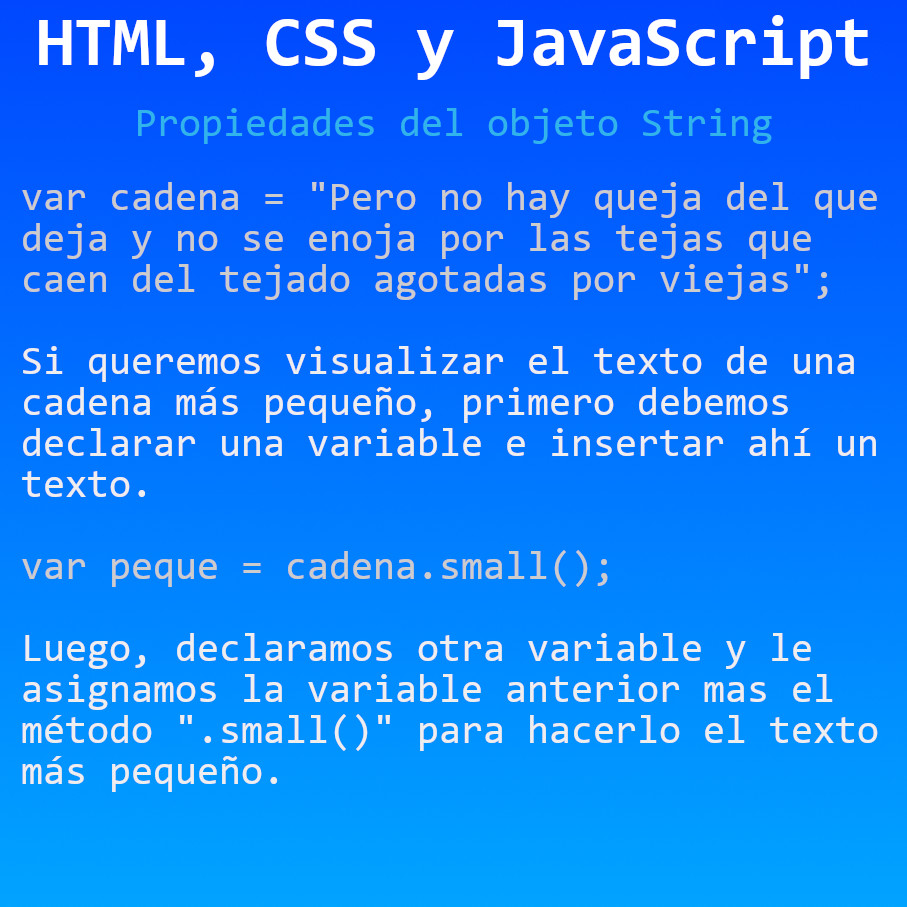
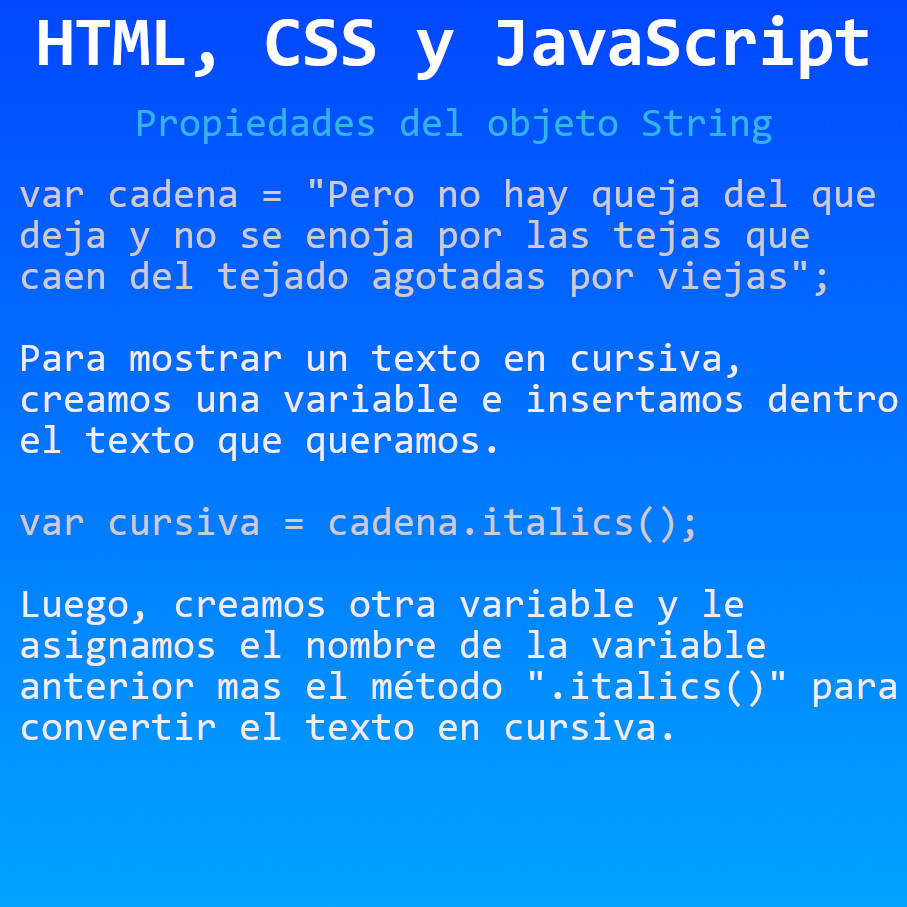
Métodos del objeto String
Métodos del objeto String en JavaScript

diff --git a/HTML, CSS y JavaScript/Métodos del objeto String/js/funciones.js b/HTML, CSS y JavaScript/Métodos del objeto String/js/funciones.js
@@ -56,3 +56,10 @@ var peque = cadena.small();
 document.write(peque);
 // SALTO DE LÍNEA
 document.write("<hr>");
+// MOSTRAR TEXTO EN CURSIVA
+// convierte el texto en cursiva
+var cursiva = cadena.italics();
+// MOSTRAR EN PANTALLA
+document.write(cursiva);
+// SALTO DE LÍNEA
+document.write("<hr>");
